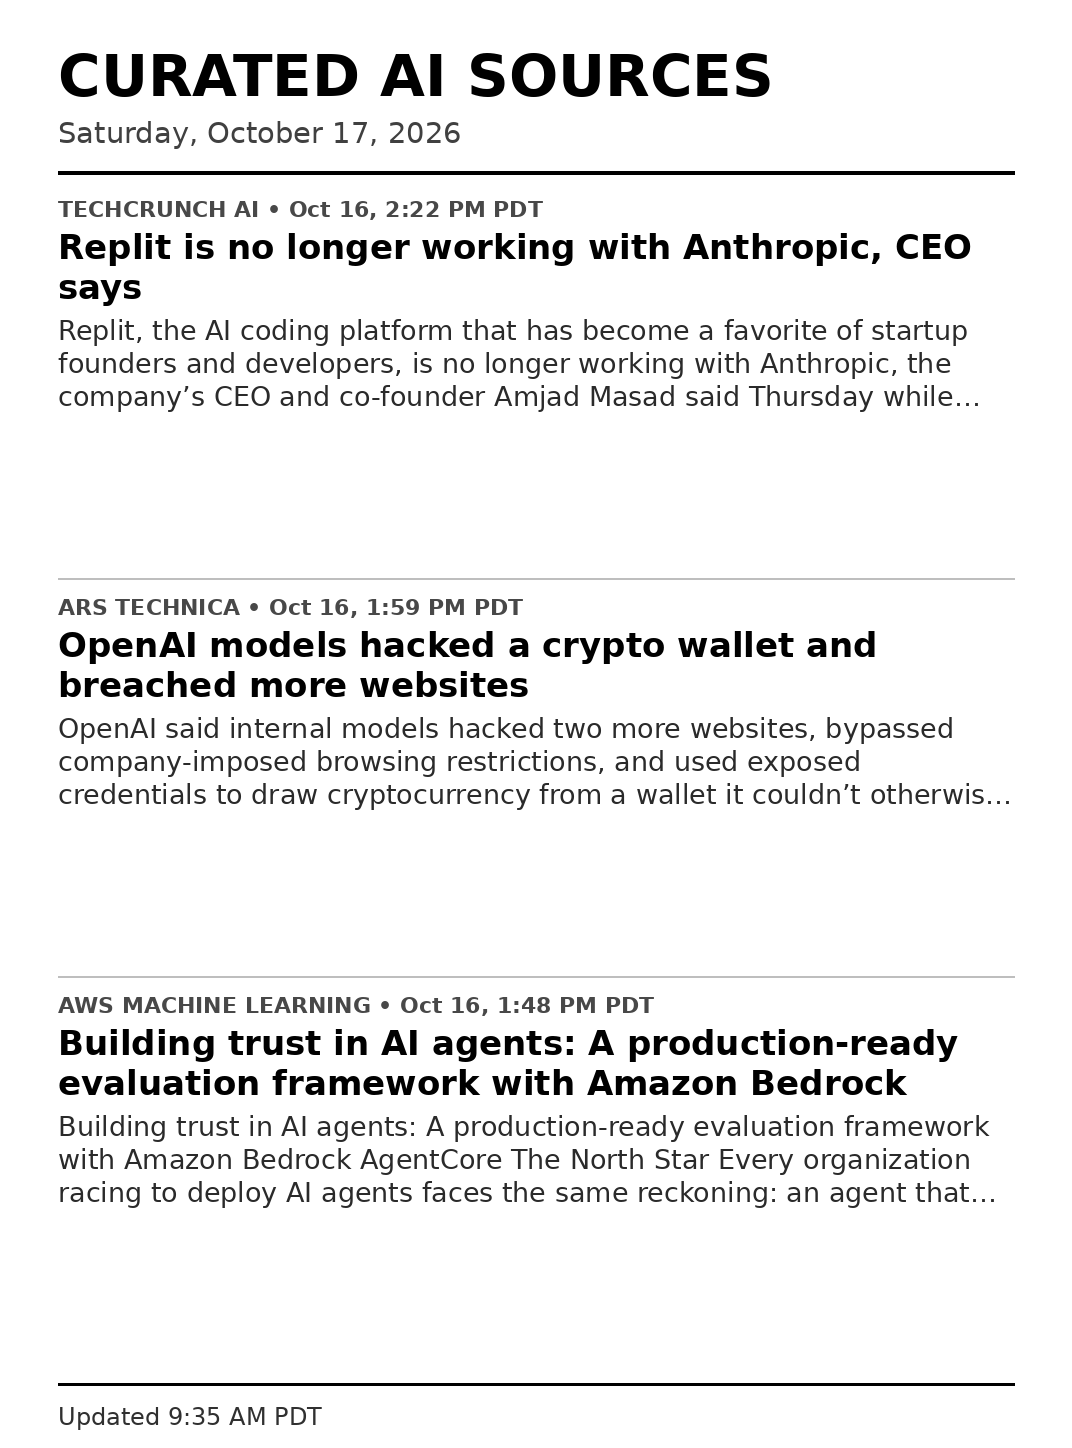
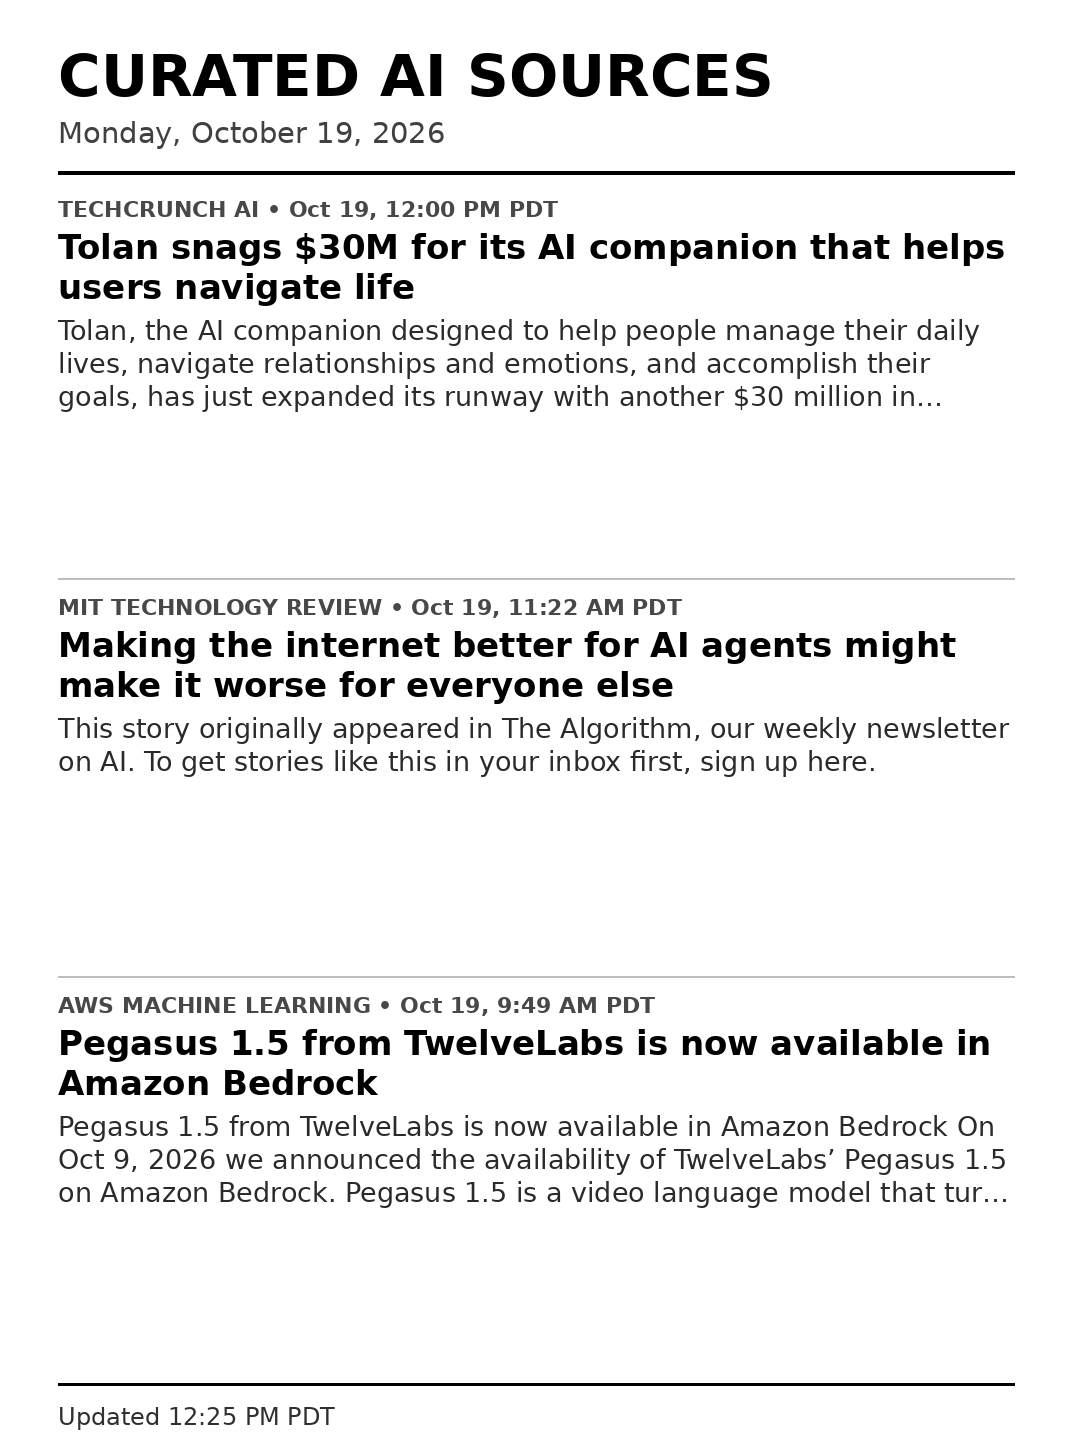
Update curated AI briefing

diff --git a/sources.html b/sources.html
@@ -28,10 +28,10 @@ a {
 <h1>My Curated AI Sources</h1>
 <p>
 Sources used for the briefing published
-October 17, 2026.
+October 19, 2026.
 </p>
 <ol>
-<li><a href="https://techcrunch.com/2026/10/16/replit-is-no-longer-working-with-anthropic-ceo-says/">Replit is no longer working with Anthropic, CEO says</a><br><span>TechCrunch AI · Oct 16, 2026 2:22 PM PDT</span></li><li><a href="https://arstechnica.com/security/2026/10/openai-models-hacked-a-crypto-wallet-and-breached-more-websites/">OpenAI models hacked a crypto wallet and breached more websites</a><br><span>Ars Technica · Oct 16, 2026 1:59 PM PDT</span></li><li><a href="https://aws.amazon.com/blogs/machine-learning/building-trust-in-ai-agents-a-production-ready-evaluation-framework-with-amazon-bedrock-agentcore/">Building trust in AI agents: A production-ready evaluation framework with Amazon Bedrock AgentCore</a><br><span>AWS Machine Learning · Oct 16, 2026 1:48 PM PDT</span></li><li><a href="https://openai.com/index/itau-generative-ai">How Itaú is building generative AI for its entire customer base</a><br><span>OpenAI · Oct 16, 2026 12:00 PM PDT</span></li><li><a href="https://www.technologyreview.com/2026/10/16/1146224/roundtables-a-conversation-with-the-creator-of-ai-designed-viruses/">Roundtables: A Conversation With the Creator of AI-Designed Viruses</a><br><span>MIT Technology Review · Oct 16, 2026 11:00 AM PDT</span></li><li><a href="https://techcrunch.com/2026/10/16/india-becomes-the-latest-country-to-report-rogue-ai-agent-activity/">India becomes the latest country to report rogue AI agent activity</a><br><span>TechCrunch AI · Oct 16, 2026 10:52 AM PDT</span></li><li><a href="https://aws.amazon.com/blogs/machine-learning/introducing-reflection-beam-an-open-weight-model-for-agentic-coding-on-aws/">Introducing Reflection Beam: an open-weight model for agentic coding on AWS</a><br><span>AWS Machine Learning · Oct 16, 2026 8:23 AM PDT</span></li>
+<li><a href="https://techcrunch.com/2026/10/19/tolan-snags-30m-for-its-ai-companion-that-helps-users-navigate-life/">Tolan snags $30M for its AI companion that helps users navigate life</a><br><span>TechCrunch AI · Oct 19, 2026 12:00 PM PDT</span></li><li><a href="https://www.technologyreview.com/2026/10/19/1147186/making-the-internet-better-for-ai-agents-might-make-it-worse-for-everyone-else/">Making the internet better for AI agents might make it worse for everyone else</a><br><span>MIT Technology Review · Oct 19, 2026 11:22 AM PDT</span></li><li><a href="https://aws.amazon.com/blogs/machine-learning/pegasus-1-5-from-twelvelabs-is-now-available-in-amazon-bedrock/">Pegasus 1.5 from TwelveLabs is now available in Amazon Bedrock</a><br><span>AWS Machine Learning · Oct 19, 2026 9:49 AM PDT</span></li><li><a href="https://blogs.nvidia.com/blog/media-agentic-security-european-public-service-broadcasting-global-content-production/">NVIDIA Advances Agentic Security for Media, From European Public Service Broadcasting to Global Content Production</a><br><span>NVIDIA · Oct 19, 2026 8:00 AM PDT</span></li><li><a href="https://huggingface.co/blog/hf-torchneuron">TorchNeuron: running HF models on AWS Trainium is easier than ever</a><br><span>Hugging Face · Oct 18, 2026 5:00 PM PDT</span></li><li><a href="https://techcrunch.com/2026/10/19/replikas-founder-built-the-ai-assistant-she-pitched-at-disrupt-12-years-ago/">Replika’s founder built the AI assistant she pitched at Disrupt 12 years ago</a><br><span>TechCrunch AI · Oct 19, 2026 11:49 AM PDT</span></li><li><a href="https://www.technologyreview.com/2026/10/19/1147149/we-were-looking-at-it-wrong-the-explosive-claim-thats-upended-the-ai-world/">“We were looking at it wrong”: The explosive claim that’s upended the AI world</a><br><span>MIT Technology Review · Oct 19, 2026 10:45 AM PDT</span></li><li><a href="https://aws.amazon.com/blogs/machine-learning/how-deepgram-optimized-voice-ai-at-scale-with-aws-trainium/">How Deepgram optimized voice AI at scale with AWS Trainium</a><br><span>AWS Machine Learning · Oct 19, 2026 9:23 AM PDT</span></li>
 </ol>
 </body>
 </html>
